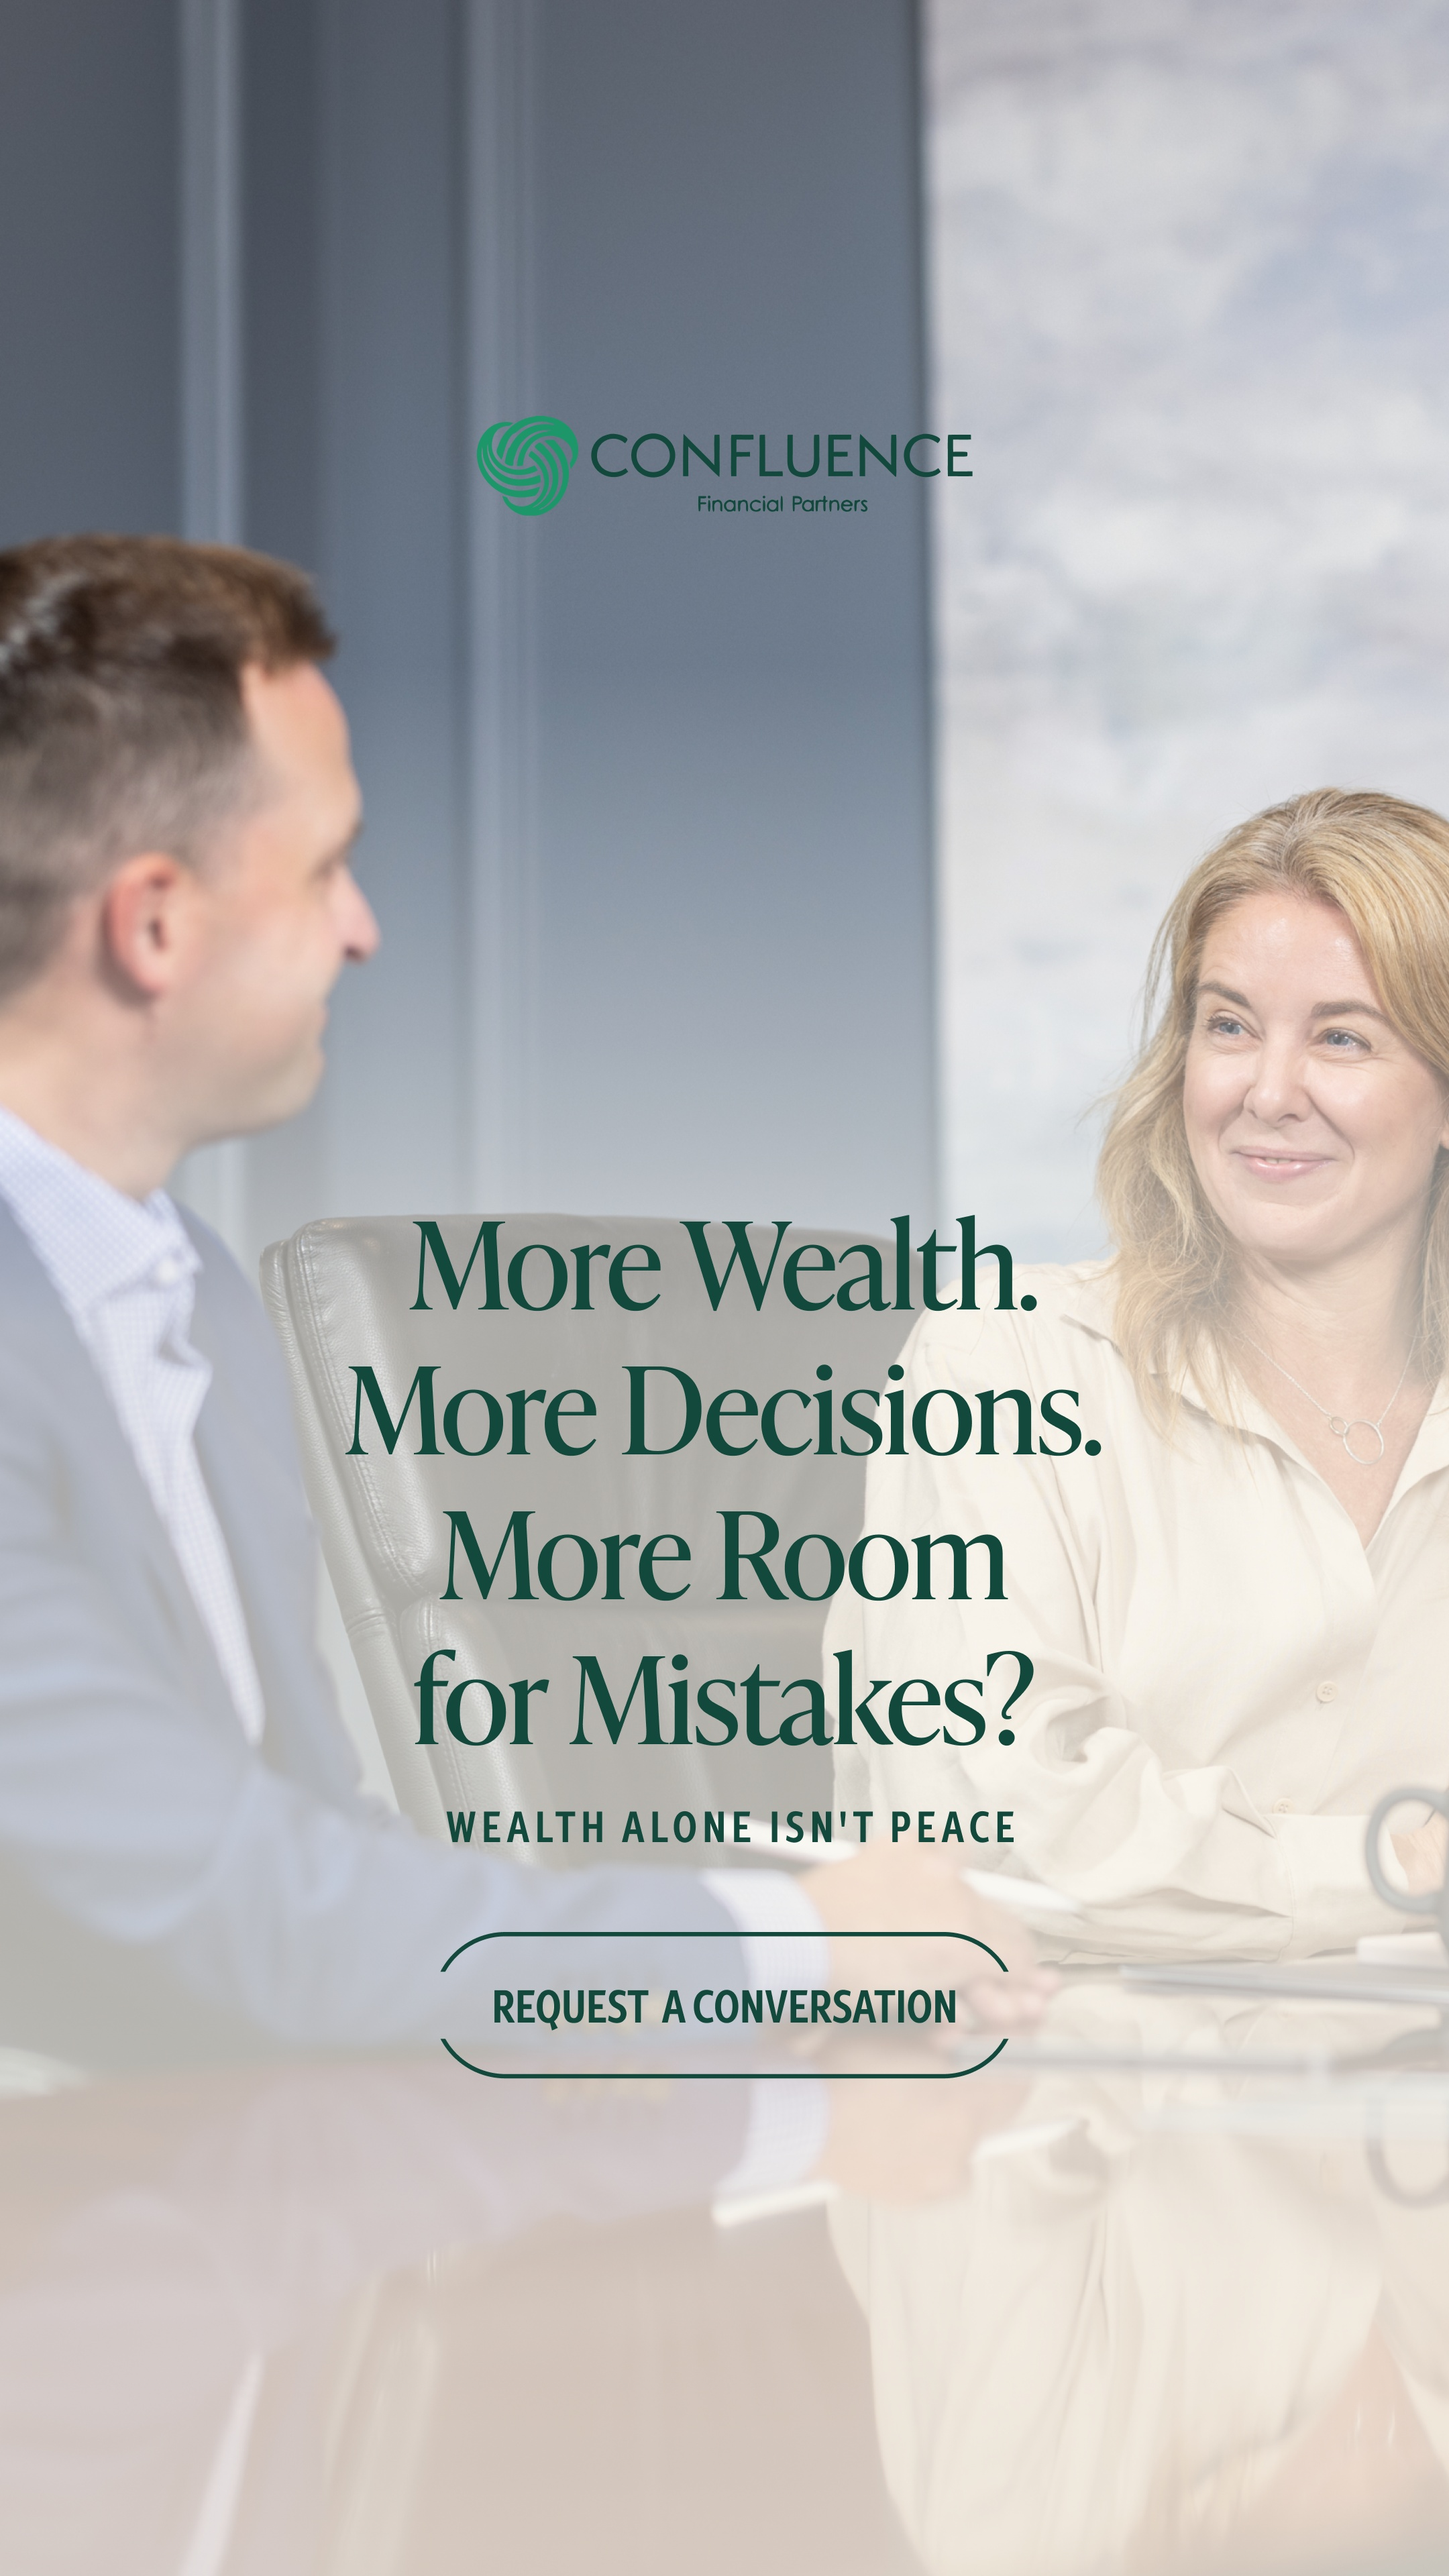
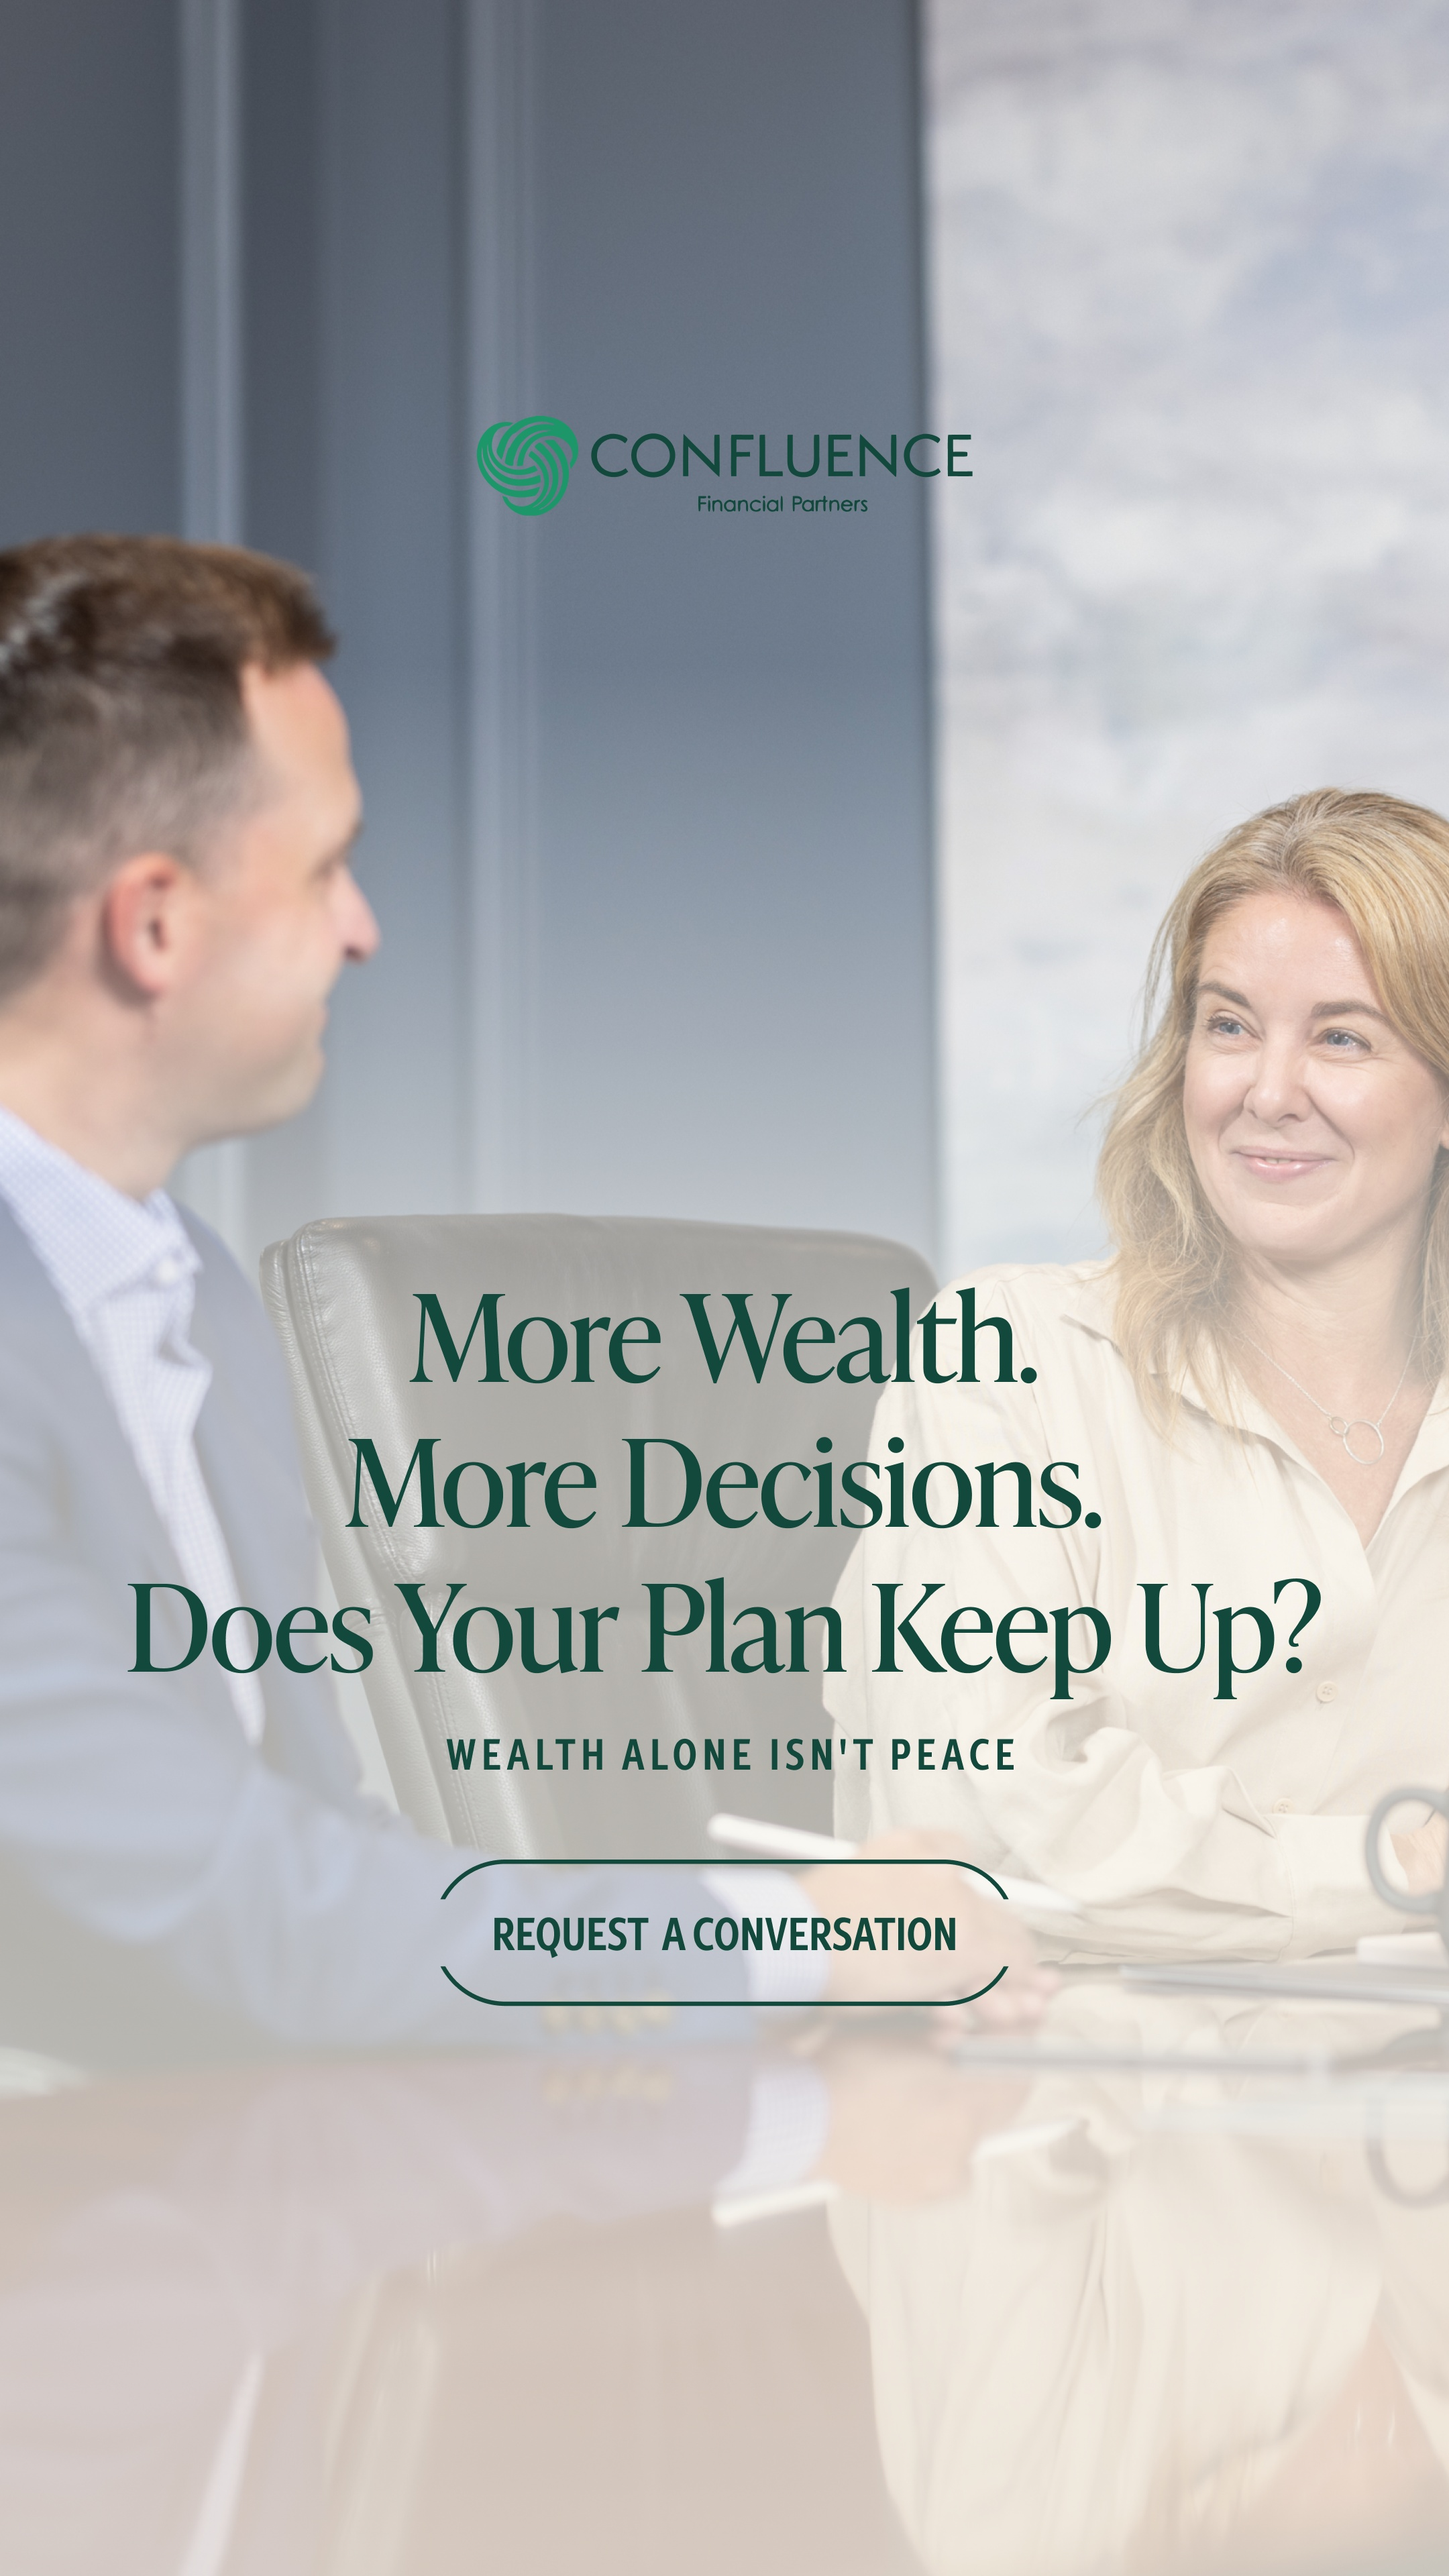
CFP vEdge: Ad 3 (Peace) headline -> 'More Wealth. More Decisions. Does Your Plan Keep Up?' (Katie edit)

Changed region(s): [[0.0931, 0.4688, 0.8995, 0.8125], [0.8995, 0.5938, 0.9306, 0.625]]

diff --git a/confluence-fp-consultation-vedge/index.html b/confluence-fp-consultation-vedge/index.html
@@ -1205,7 +1205,7 @@ let _activeImageVersion = {};
 let _placementIdx = {};
 let _feedbackCache = {};
 const CAMPAIGN_ID = 'confluence-fp-consultation-vedge';
-const ASSET_V = '1787329676';  // cache-bust token, stamped at bake time
+const ASSET_V = '1787330260';  // cache-bust token, stamped at bake time
 
 // ── Utility ────────────────────────────────────────────────────────────────
 function esc(s) {

diff --git a/confluence-fp-consultation-vedge/IMAGE-TEXT-PUNCHLIST.md b/confluence-fp-consultation-vedge/IMAGE-TEXT-PUNCHLIST.md
@@ -9,7 +9,7 @@ Source: `feedback` table, campaign `confluence-fp-consultation-vedge`.
 |----|---------|------------------|------------------------|--------|
 | 1 | Clarity | eyebrow: WHEN THE PICTURE GETS COMPLEX | eyebrow → **"As wealth grows, so does complexity."** | ✅ placed (output 96) |
 | 2 | Purpose | eyebrow: WEALTH NEEDS DIRECTION | eyebrow → **"The numbers matter. So does the plan behind them."** | ✅ placed (output 97) |
-| 3 | Peace | headline: More Wealth. More Decisions. More Room for Mistakes? | headline → **"Does Your Plan Keep Up?"** | ☐ |
+| 3 | Peace | headline: More Wealth. More Decisions. More Room for Mistakes? | headline → **"Does Your Plan Keep Up?"** | ✅ placed (output 98) |
 | 4 | Standard | (no comment) | — | ✓ |
 | 5 | Proactive | Is Your Financial Advisor Proactive or Reactive? / WHY WAIT TO BE ASKED | headline → **"Is Your Financial Advisor Helping You Prepare for What's Next?"** · sub → **"Financial planning is about more than responding to change."** | ☐ |
 | 6 | Value | Your Advisor Charges a Fee. Do They Deliver the Value? / COST IS ONLY HALF OF IT | headline → **"Your Advisor Charges a Fee. Do You Understand the Services Behind It?"** · eyebrow → **"Cost Is Only Part of the Equation."** | ☐ |
